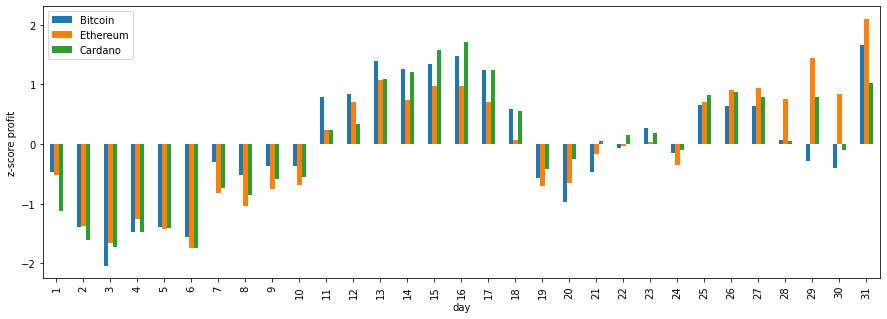
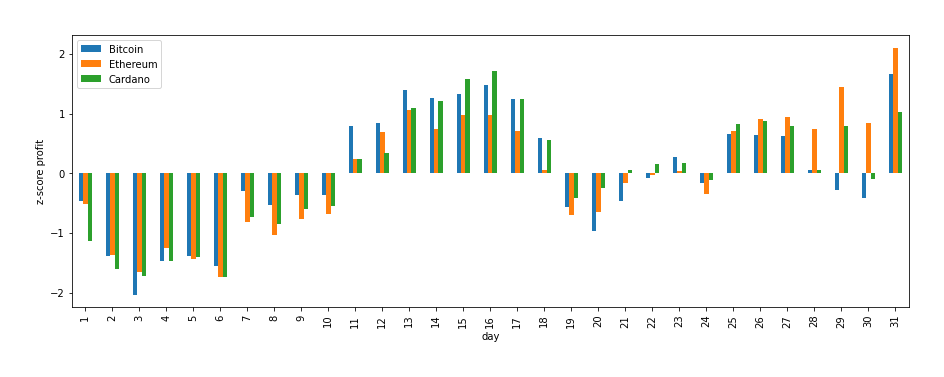
minor readme adj

diff --git a/README.md b/README.md
@@ -35,7 +35,7 @@ In case of a weekly DCA, what was the day of the week that historically provided
 
 It turned out that for a portfolio comprised of [BTC](https://bitcoin.org/da/), [ETH](https://ethereum.org/en/) and [DOT](https://polkadot.network/) the day providing the highest profit was <ins>Friday</ins>.
 
-![Screenshot](images/weekly.png)
+![Screenshot](images/weekly.jpeg)
 
 For the complete analysis see [notebook](./notebooks/weekly_DCA_most_profitable_day.ipynb)
 
@@ -48,7 +48,7 @@ In case of a monthly DCA, what was the day of the month that historically provid
 It turned out that for a portfolio with 50% [BTC](https://bitcoin.org/da/), 40% [ETH](https://ethereum.org/en/) and 10% [ADA](https://cardano.org/) the day of month providing the highest profit was the <ins>31st</ins>.
 
 
-![Screenshot](images/monthly.png)
+![Screenshot](images/monthly.jpeg)
 
 For the complete analysis see [notebook](./notebooks/monthly_DCA_most_profitable_day.ipynb)
 
